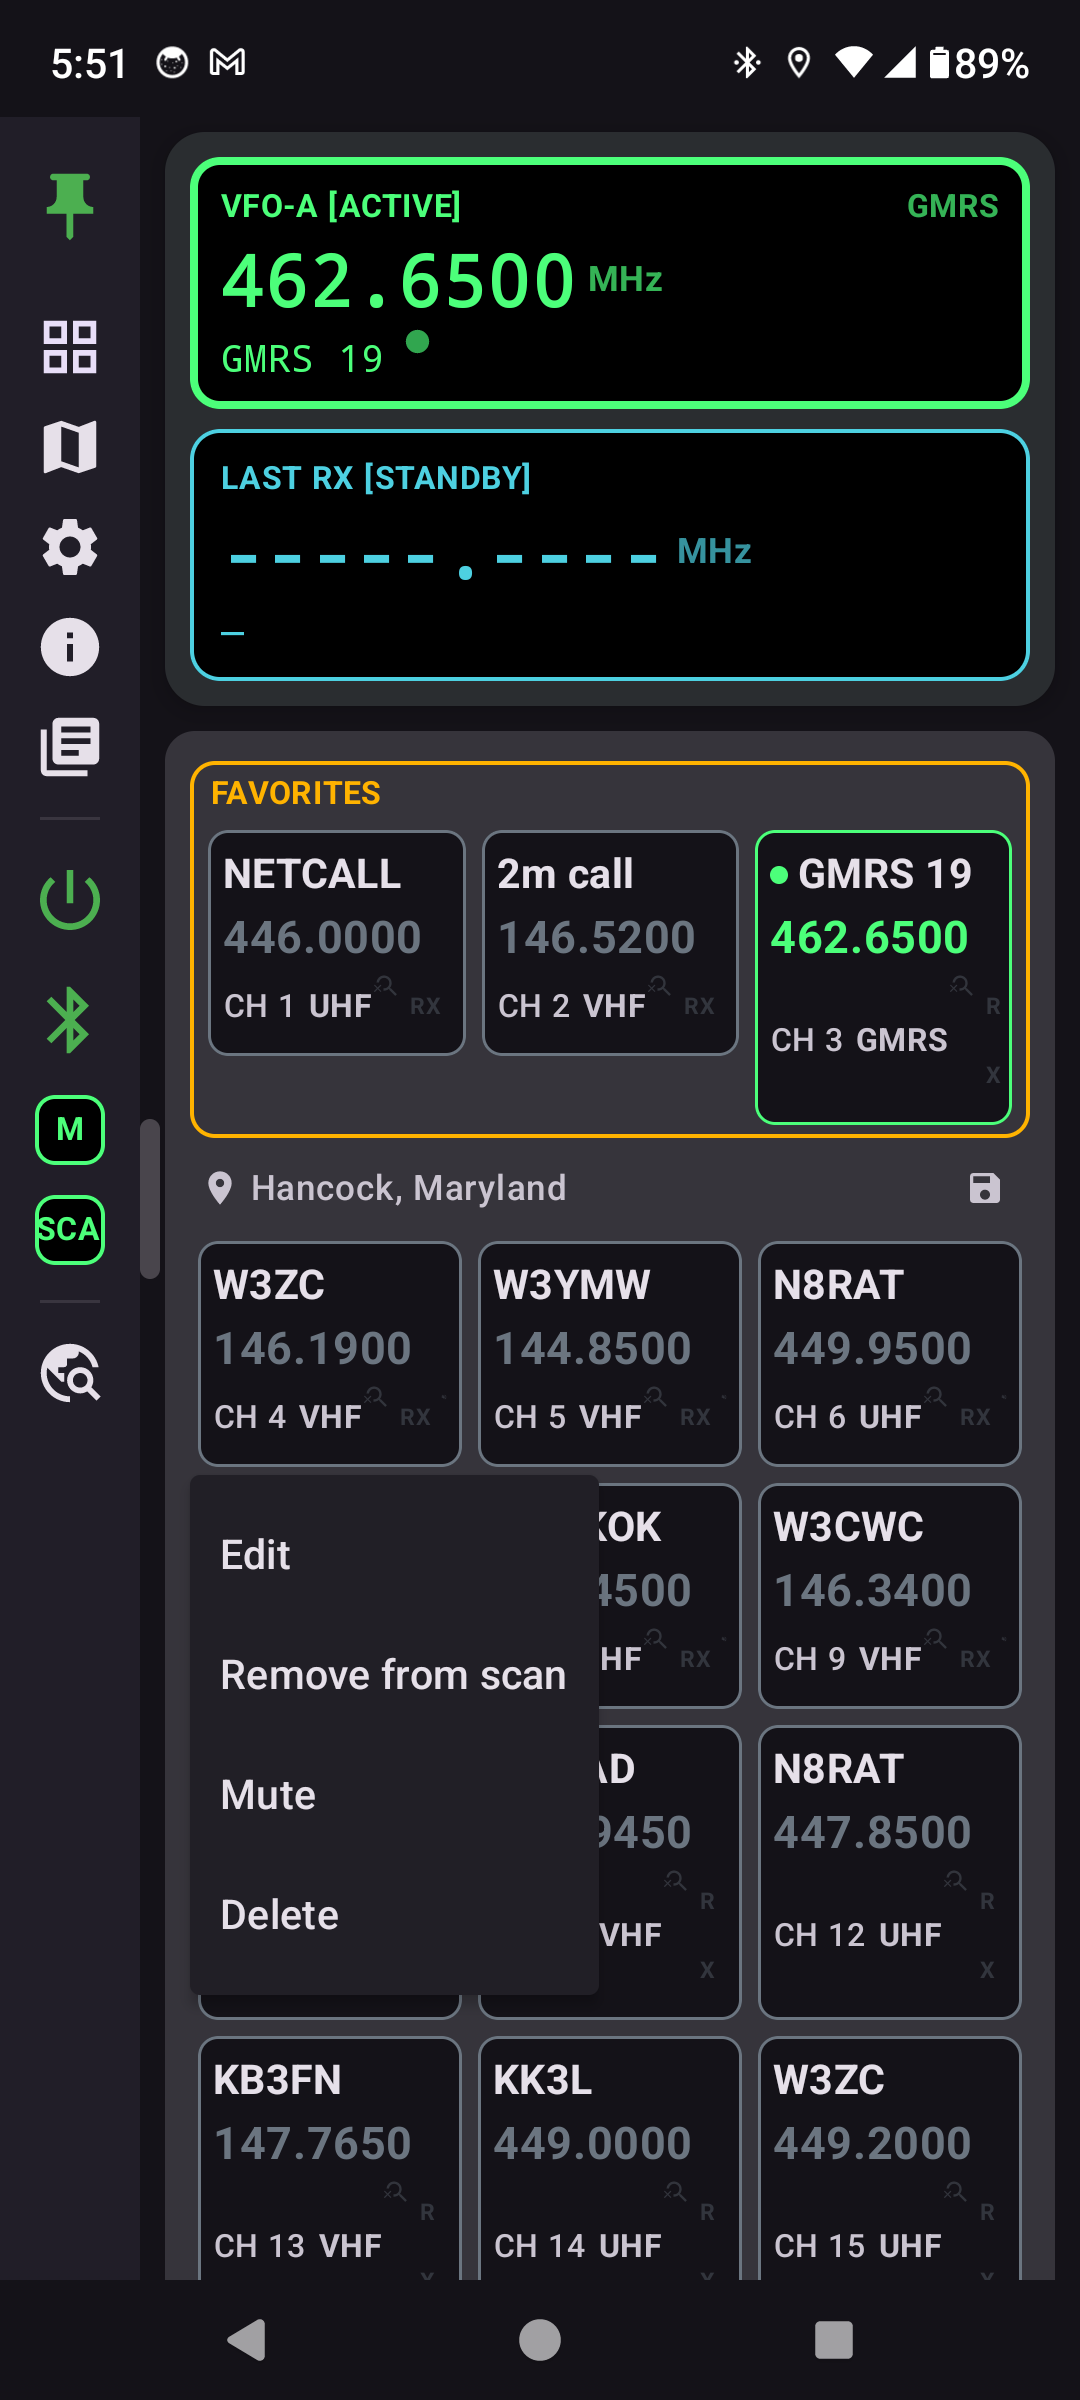
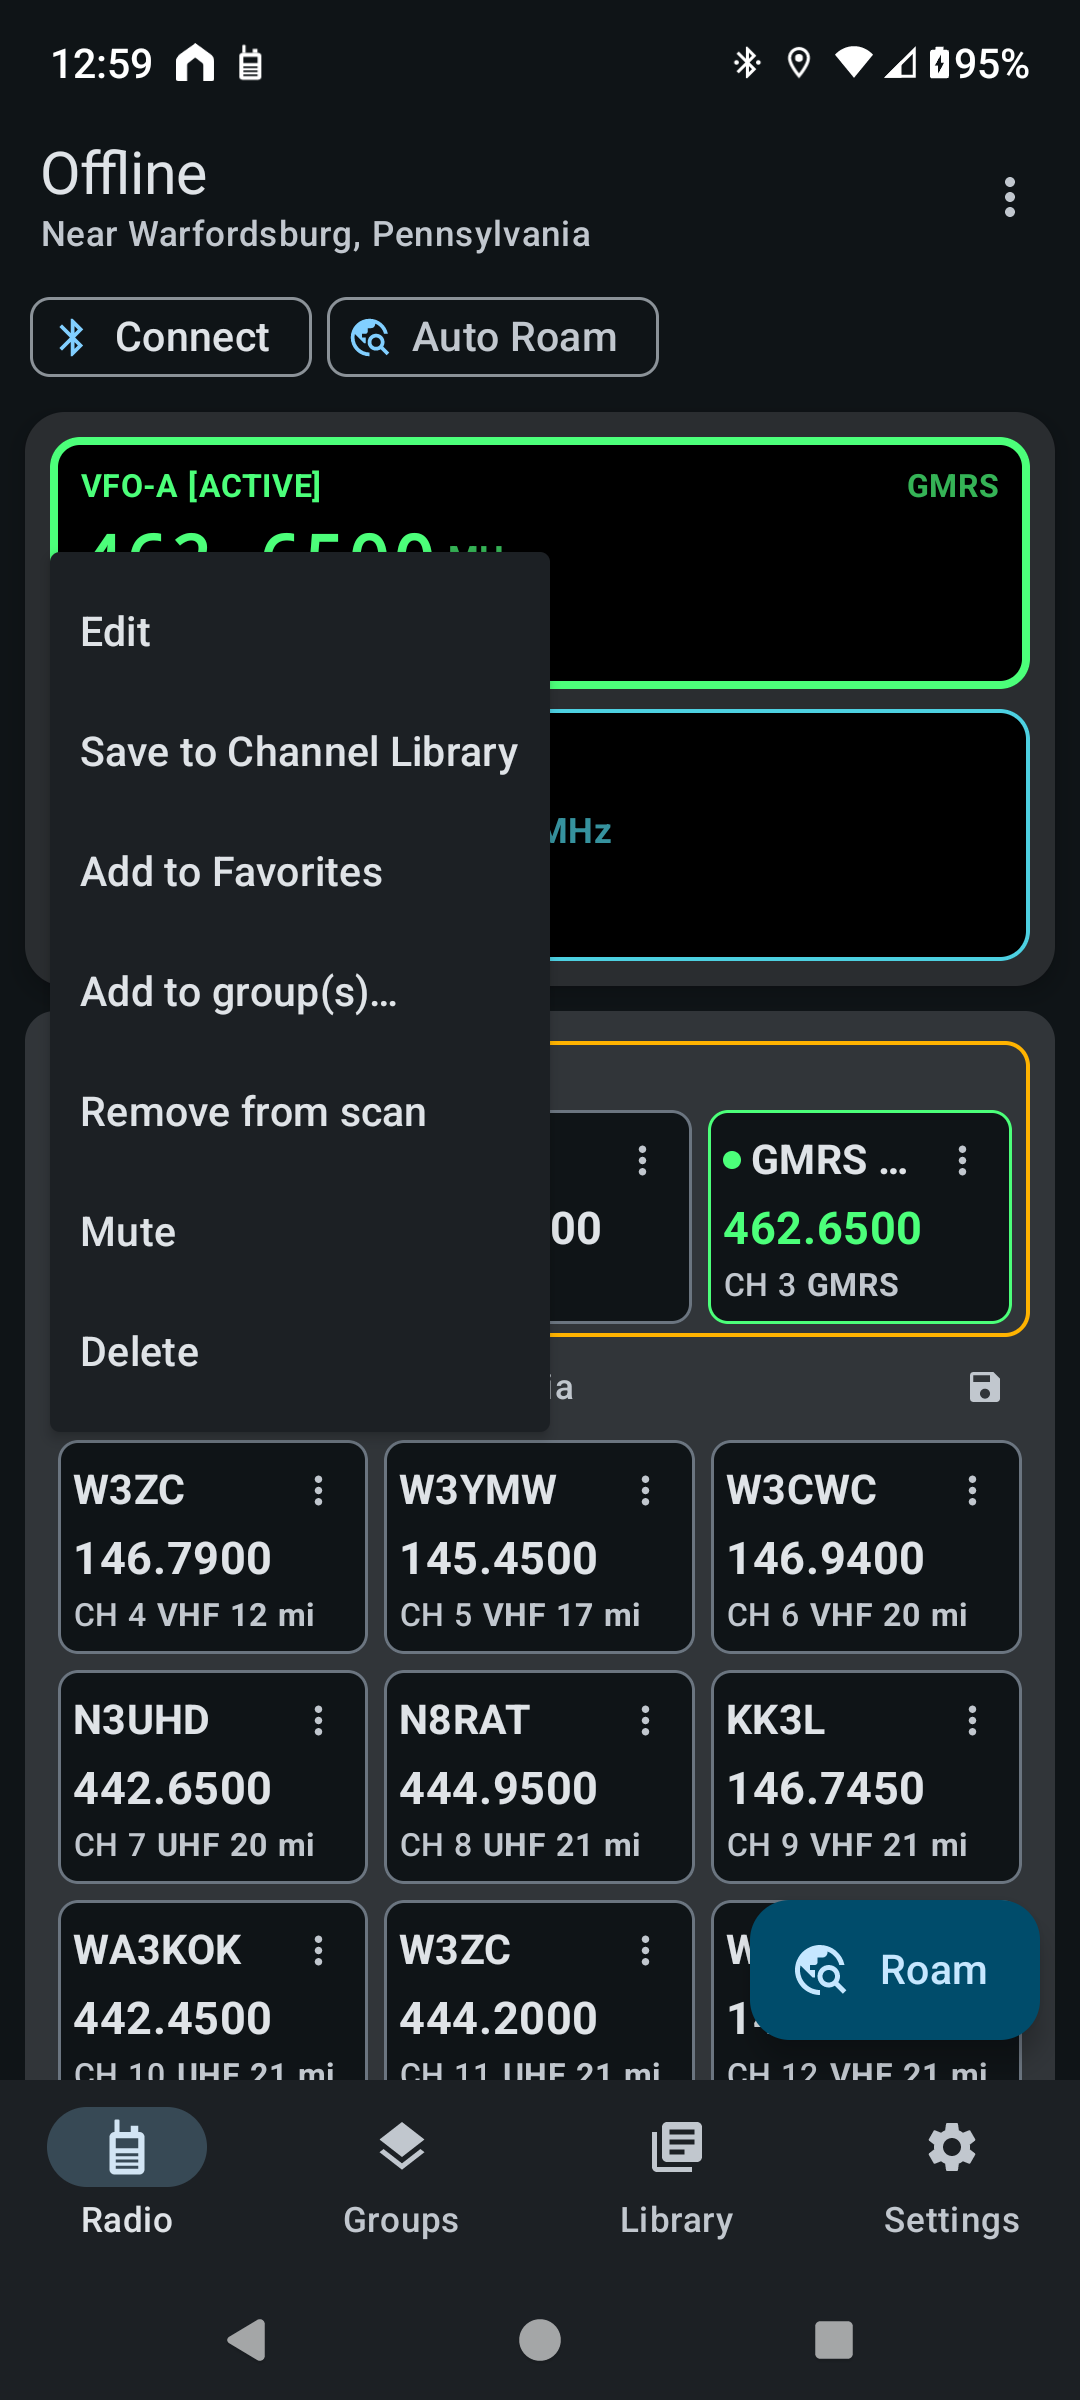
Refresh N7500 Dashboard show & tell with new screenshots and feature notes

diff --git a/N7500Dash/show-and-tell.html b/N7500Dash/show-and-tell.html
@@ -257,7 +257,7 @@
 
     <div class="status-banner">
       <strong>Now in closed testing on Google Play.</strong> Every screenshot
-      on this page is from the app running against a real VR-N7500 — this
+      on this page is from the real app with a real VR-N7500's channels — this
       tracks what's actually done, not a roadmap.
     </div>
 
@@ -281,15 +281,19 @@
           <div class="eyebrow">Connect</div>
           <h2>Only your radio, not every earbud in range</h2>
           <p>
-            The connect screen lists only devices it knows are radios — ones
-            you've connected to before, or ones named like a radio in this
-            family. Earbuds, car stereos, and watches stay out of the way. If
-            yours isn't listed, one tap on "Not listed?" shows everything
-            nearby.
+            The connect screen starts scanning on its own and lists only
+            devices it knows are radios — radios already paired with your phone
+            first, then any nearby. Earbuds, car stereos, and watches stay out
+            of the way. If yours isn't listed, one tap on "Not listed?" shows
+            everything nearby.
           </p>
           <ul>
             <li>
               Reconnects to your radio on its own the next time it's in range
+            </li>
+            <li>
+              Three short steps instead of a wall of instructions, and a plain
+              explanation before Android asks for Bluetooth or location access
             </li>
             <li>
               No radio handy? "Use offline" lets you browse and edit your
@@ -300,7 +304,7 @@
         <div class="shots">
           <img
             src="screenshots/connect-radios-only.png"
-            alt="N7500 Dashboard connect screen listing only the VR-N7500, with a Not listed? Show all devices (7 hidden) button"
+            alt="N7500 Dashboard connect screen with numbered steps, the paired VR-N7500 listed first, and a Not listed? Show all devices (7 hidden) button"
           />
         </div>
       </div>
@@ -312,9 +316,11 @@
           <p>
             Frequency, mode, signal strength, squelch, TX power, and Work Mode
             (Single/Dual/Scan) — all synced from the radio in real time, not
-            just read once at connect. A squelch slider sits right on the
-            S-meter: hold for half a second to unlock it, then drag — a
-            deliberate "lock" so it can't move by accident.
+            just read once at connect. A row of labeled buttons across the top
+            is both the status and the control: tap Power to step High → Med →
+            Low, tap Mode to step Single → Dual → Scan. A squelch slider sits
+            right on the S-meter: hold for half a second to unlock it, then
+            drag — a deliberate "lock" so it can't move by accident.
           </p>
           <ul>
             <li>
@@ -331,16 +337,64 @@
               the math
             </li>
             <li>
-              Power (L/M/H) and I/II/Scan live in the side menu as one-tap
-              toggles, and write to the radio the instant you tap them — no
-              separate "save" step, the same as turning a physical knob
+              Each Roam channel shows how far away its repeater is, updating as
+              you drive — with a green ↓ while you're getting closer
+            </li>
+            <li>
+              A standard Android layout: a bottom bar on phones, Back works
+              everywhere, and messages with Undo when you remove something
             </li>
           </ul>
         </div>
         <div class="shots">
           <img
             src="screenshots/dashboard.png"
-            alt="N7500 Dashboard home screen with VFO display, squelch slider, and channel grid"
+            alt="N7500 Dashboard Radio screen in dark mode with the VFO display, Connect and Auto Roam buttons, and channel tiles showing distance to each repeater"
+          />
+        </div>
+      </div>
+
+      <div class="feature reverse">
+        <div class="text">
+          <div class="eyebrow">Light &amp; Dark</div>
+          <h2>Readable in the sun, easy on the eyes at night</h2>
+          <p>
+            Pick Light, Dark, or follow your phone (Settings → Theme). In dark
+            mode the radio display glows like a night-lit LCD; in light mode it
+            switches to a daylight LCD — dark digits on a pale backlight, with
+            colors chosen to stay readable in bright sun. On Android 12 and
+            later the rest of the app picks up your phone's own colors.
+          </p>
+        </div>
+        <div class="shots">
+          <img
+            src="screenshots/dashboard-light.png"
+            alt="N7500 Dashboard Radio screen in light mode with a pale green daylight-LCD VFO display and light channel tiles"
+          />
+        </div>
+      </div>
+
+      <div class="feature text-only">
+        <div class="text">
+          <div class="eyebrow">Phone or Tablet</div>
+          <h2>Uses the whole screen on a tablet</h2>
+          <p>
+            On a tablet the navigation moves to a side rail and screens split
+            into two panes: the tuned channel's details and actions sit under
+            the VFO display, and a group's channels open beside the list of
+            groups.
+          </p>
+        </div>
+        <div class="shots">
+          <img
+            class="wide"
+            src="screenshots/tablet-dashboard.png"
+            alt="N7500 Dashboard on a tablet in landscape: VFO display with the tuned channel's details and actions on the left, channel grid on the right"
+          />
+          <img
+            class="wide"
+            src="screenshots/tablet-groups.png"
+            alt="N7500 Dashboard Groups on a tablet in landscape: list of groups on the left, the MURS group's channels and Write to radio on the right"
           />
         </div>
       </div>
@@ -355,6 +409,16 @@
             below, in the same colors as the dashboard. It only appears while a
             radio is connected, so it never clutters your screen for nothing.
           </p>
+          <ul>
+            <li>
+              While connected, a notification shows the current channel with
+              Roam and Disconnect buttons
+            </li>
+            <li>
+              Roam from a Quick Settings tile, a long-press on the app icon, or
+              the home-screen widget
+            </li>
+          </ul>
         </div>
         <div class="shots">
           <img
@@ -369,11 +433,12 @@
           <div class="eyebrow">Channel Editor</div>
           <h2>Every field the radio actually has</h2>
           <p>
-            Frequency, name, repeater offset (with automatic RX calculation),
-            CTCSS/DCS tone, TX power, bandwidth, scan membership, mute, and more
-            — a real numeric keyboard for frequency entry, not a custom keypad.
-            Fields are cross-checked against the vendor's own app so nothing
-            here is guesswork.
+            Enter the frequency you listen on, then transmit as simplex, an
+            offset (one tap for 600 kHz or 5 MHz), or its own frequency. Name,
+            CTCSS/DCS tone, TX power, scan membership, mute, and more — with
+            rarely used settings folded under Advanced. On a phone it opens full
+            screen with Save at the top. Fields are cross-checked against the
+            vendor's own app so nothing here is guesswork.
           </p>
           <ul>
             <li>
@@ -381,15 +446,14 @@
               for remembering what a repeater actually is
             </li>
             <li>
-              Delete a channel cleanly, or exclude it from the scan cycle,
-              without opening the full editor
+              Add the channel to any number of Groups right from the editor
             </li>
           </ul>
         </div>
         <div class="shots">
           <img
             src="screenshots/channel-edit.png"
-            alt="N7500 Dashboard's full channel editor with frequency, offset, tone, and power fields"
+            alt="N7500 Dashboard's full-screen channel editor with RX frequency, name, location, offset, tones, and power"
           />
         </div>
       </div>
@@ -399,11 +463,11 @@
           <div class="eyebrow">Channel Library &amp; Search</div>
           <h2>Fill a channel without typing it in</h2>
           <p>
-            "Search / add from list" in the channel editor pulls from two
-            places: <strong>My Channels</strong>, a library of every channel
-            you've saved before, and <strong>RepeaterBook</strong>, sorted by
-            distance from you. Heading out of town? Type a city, state, or ZIP
-            and search around there instead.
+            The search button in the channel editor pulls from two places: your
+            <strong>Library</strong> of every channel you've saved, and
+            <strong>RepeaterBook</strong> — nearby, around a city, state, or ZIP,
+            or by name or club anywhere. When filling a Group you can pick
+            several at once, up to the room the Group has left.
           </p>
           <ul>
             <li>
@@ -411,15 +475,15 @@
               radio until you tap Save and confirm
             </li>
             <li>
-              The Library screen keeps your saved channels in one place, ready
-              to drop into any Group
+              The Library is one shared list of channels: a channel can be in
+              several Groups, and editing it updates every Group that uses it
             </li>
           </ul>
         </div>
         <div class="shots">
           <img
             src="screenshots/channel-search.png"
-            alt="N7500 Dashboard's Search / add from list dialog showing nearby RepeaterBook repeaters with distances and a search-a-place box"
+            alt="N7500 Dashboard's Search / add from list sheet showing Library and RepeaterBook tabs and saved channels in a grid"
           />
         </div>
       </div>
@@ -430,16 +494,27 @@
           <h2>Never writes to your radio by accident</h2>
           <p>
             Any edit that rewrites the radio's stored channel memory shows a
-            confirmation step first — always. Long-press a channel for quick
-            actions: Edit, Delete, and two that are deliberately instant (Scan
-            on/off and Mute) because they're single-field toggles a driver needs
-            to flip without stopping to confirm every time.
+            confirmation step first — always. Each channel's ⋮ button has quick
+            actions: Edit, Add to Favorites or Groups, Delete, and two that are
+            deliberately instant (Scan on/off and Mute) because they're
+            single-field toggles a driver needs to flip without stopping to
+            confirm every time.
           </p>
+          <ul>
+            <li>
+              Long-press to select several channels at once; changing them all
+              on the radio still asks first
+            </li>
+            <li>
+              Removing a channel from a Group or the Library happens right away,
+              with Undo — it never touches the radio
+            </li>
+          </ul>
         </div>
         <div class="shots">
           <img
             src="screenshots/context-menu.png"
-            alt="N7500 Dashboard's long-press channel menu with Edit, Remove from scan, Mute, and Delete"
+            alt="N7500 Dashboard's channel menu with Edit, Save to Channel Library, Add to Favorites, Add to group(s), Remove from scan, Mute, and Delete"
           />
         </div>
       </div>
@@ -452,11 +527,16 @@
             A Group is a saved, named 32-channel set — save what's currently
             loaded, or start fresh and build one from scratch. Built-in GMRS and
             MURS templates load the FCC's own band plan in one tap, at the
-            correct power tier for each. Up to 3 Favorites stay pinned in every
+            correct power tier for each, and a NOAA Weather template adds the
+            weather channels as receive-only. Up to 3 Favorites stay pinned in every
             Group, so the channels you use most are never one load away from
             disappearing.
           </p>
           <ul>
+            <li>
+              Open a Group to add channels, drag them into order, and write the
+              whole set to the radio in one confirmed step
+            </li>
             <li>
               Share a Group with another operator through Android's share menu
               — email, Messages, Drive, Bluetooth — and import one they sent you
@@ -466,7 +546,11 @@
         <div class="shots">
           <img
             src="screenshots/groups.png"
-            alt="N7500 Dashboard Groups tab with saved MURS and GMRS channel groups"
+            alt="N7500 Dashboard Groups screen with GMRS, MURS, and NERA groups and a New group button"
+          />
+          <img
+            src="screenshots/group-detail.png"
+            alt="N7500 Dashboard's GMRS group open, with Add channel, Add several, draggable channels, and Write to radio"
           />
         </div>
       </div>
@@ -484,11 +568,20 @@
             far enough (5, 10, 15, or 20 miles, your choice) to need new
             repeaters — not on a timer, on distance.
           </p>
+          <ul>
+            <li>
+              Roam is one button on the Radio screen, and it tells you up front
+              if it needs your token or location access
+            </li>
+            <li>
+              Every Roam channel shows its distance from you, live as you drive
+            </li>
+          </ul>
         </div>
         <div class="shots">
           <img
             src="screenshots/settings.png"
-            alt="N7500 Dashboard settings page with RepeaterBook token, Roam radius, and Auto Roam distance picker"
+            alt="N7500 Dashboard Settings with the RepeaterBook token (hidden), Roam search radius, Auto Roam distance, and Theme"
           />
         </div>
       </div>
@@ -518,7 +611,7 @@
             </li>
             <li>
               Copy that token, then in N7500 Dashboard go to
-              <strong>All Settings → RepeaterBook</strong>, paste it into the
+              <strong>Settings → Roam &amp; RepeaterBook</strong>, paste it into the
               token field, and tap Save
             </li>
           </ul>
